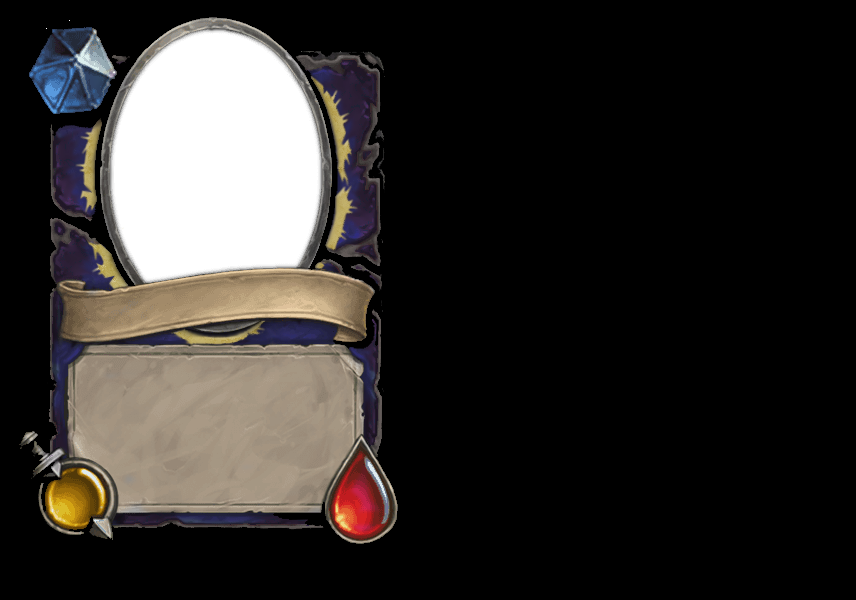
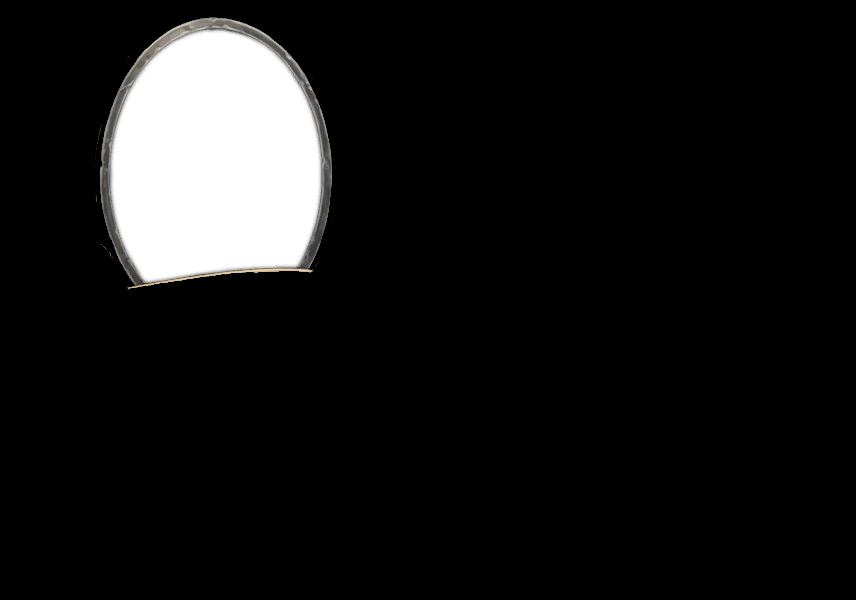
changed mask image

Changed region(s): [[0.0, 0.03, 0.486, 0.93]]

diff --git a/client/src/components/BattleGame.jsx b/client/src/components/BattleGame.jsx
@@ -84,6 +84,7 @@ const BattleGame = ({ battleId, player1, player2, isComputerOpponent, onBattleEn
         this.load.setBaseURL('https://card-game-eosin.vercel.app/');
         this.load.image('background', 'assets/background.jpg');
         this.load.image('card_frame', 'assets/card.png');
+        this.load.image('card_mask', 'assets/card_mask.png');
         this.load.image('player1_image', player1.image);
         this.load.image('player2_image', player2.image);
         this.load.spritesheet('attack_effect', 'assets/attack_spritesheet.jpg', {
@@ -171,16 +172,14 @@ const BattleGame = ({ battleId, player1, player2, isComputerOpponent, onBattleEn
         const circleRadius = 45 * scaleRatio; // Increase the circle size
         const imageY = 500 * scaleRatio; // Adjust vertical position of the image
         
-        const frameMask = scene.make.image({ x: x, y: y, key: 'card_frame', add: false }).setScale(0.5 * scaleRatio);
+        const frameMask = scene.make.image({ x: x, y: y, key: 'card_mask', add: false }).setScale(0.5 * scaleRatio);
 
         const mask = new Phaser.Display.Masks.BitmapMask(scene, frameMask);
-
-        frame.mask = mask;
         
         // Add the character image 
         const characterImage = scene.add.image(100, -40, imageKey);
         characterImage.setDisplaySize(circleRadius * 6, circleRadius * 5);
-        // characterImage.mask = mask;
+        characterImage.mask = mask;
         characterImage.setOrigin(0.5);
               
         // Add name on the ribbon
